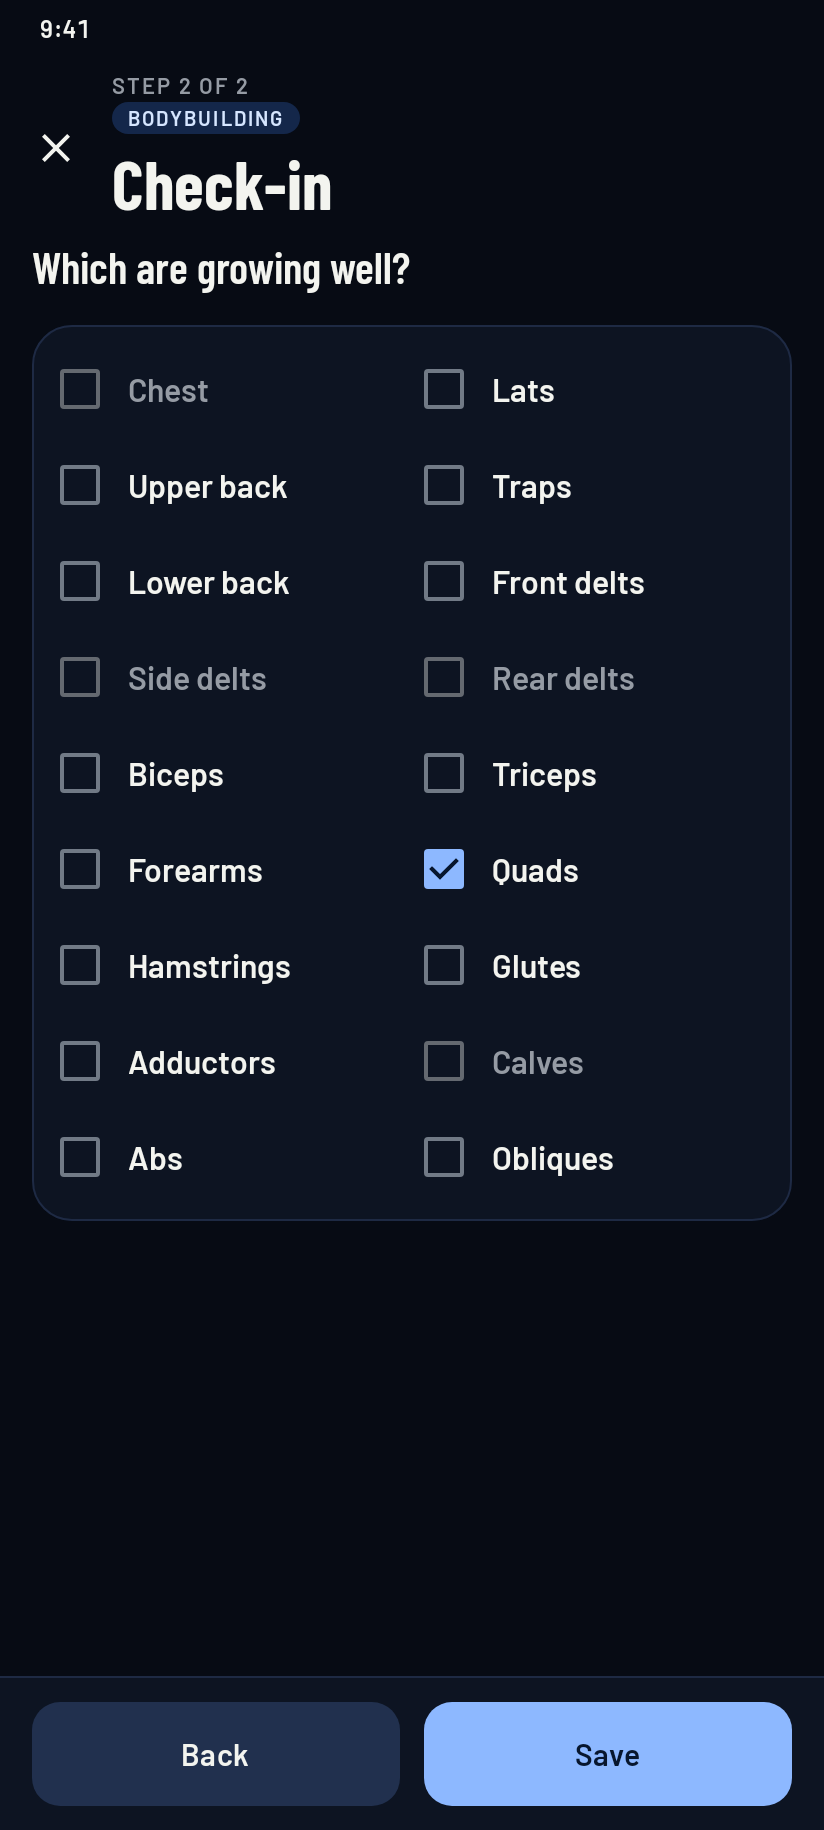
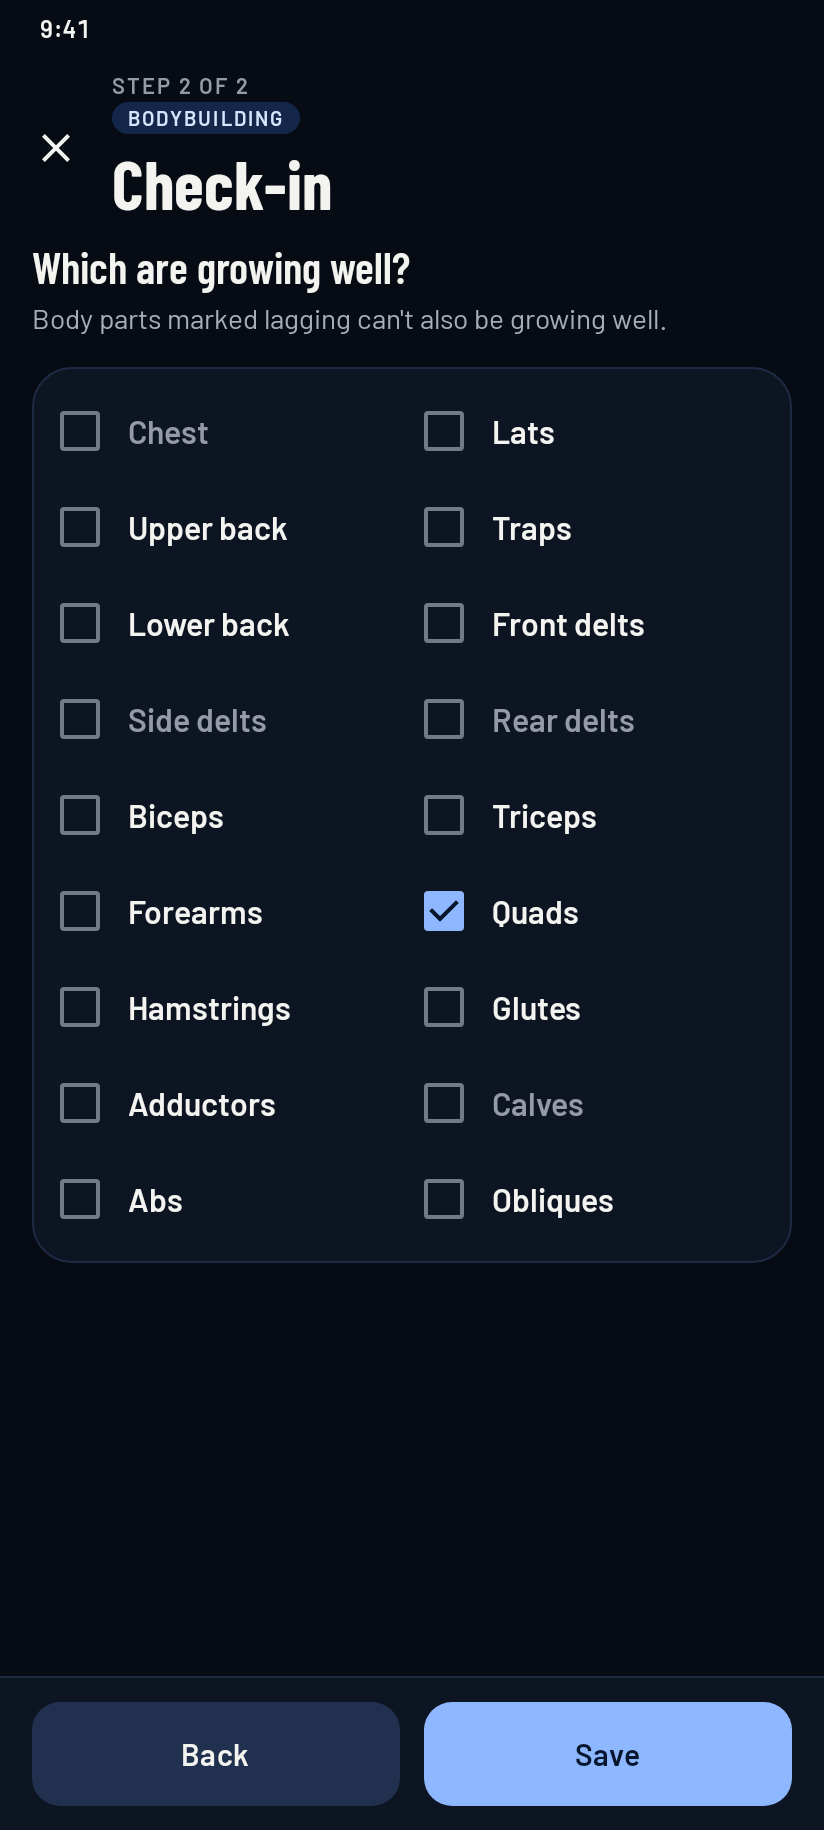
fix(app): check-in fix round: failed writes, empty plan, clearer step 2
Failed writes of Add to plan, a swap and a check-in are tested to bring
the card back or store nothing. An empty bodybuilding plan offers no
check-in. Step 2 says why lagging body parts are locked, and the locked
boxes keep the outline. The Android v4 fixture's side-delt advice now
adds a set to a lateral raise.

Claude-Session: https://claude.ai/code/session_01KboHw6FdBYrNDSMx1QWyzy

diff --git a/app/src/test/kotlin/com/powertracker/ui/CheckInTest.kt b/app/src/test/kotlin/com/powertracker/ui/CheckInTest.kt
@@ -127,14 +127,14 @@ class CheckInTest {
         training.plan(BODYBUILDING).first().map { it.weekday to (n.getValue(it.exerciseId) to it.sets) }
     }
 
-    private fun coachVm() = CoachViewModel(training, advice, settings) { today }.also { vm -> viewModels += vm; collectors.launch { vm.state.collect {} } }
+    private fun coachVm(repository: AdviceRepository = advice) = CoachViewModel(training, repository, settings) { today }.also { vm -> viewModels += vm; collectors.launch { vm.state.collect {} } }
 
     private fun CoachViewModel.await(condition: (CoachState) -> Boolean): CoachState {
         await("coach state") { !state.value.loading && condition(state.value) }
         return state.value
     }
 
-    private fun checkInVm() = CheckInViewModel(training, advice, settings) { today }.also { vm -> viewModels += vm; collectors.launch { vm.state.collect {} } }
+    private fun checkInVm(repository: AdviceRepository = advice) = CheckInViewModel(training, repository, settings) { today }.also { vm -> viewModels += vm; collectors.launch { vm.state.collect {} } }
 
     private fun progressVm() = ProgressViewModel(training, settings.showStrictPress, settings.settings.map { it.trainingMode }) { today }
         .also { vm -> viewModels += vm; collectors.launch { vm.state.collect {} } }
@@ -469,5 +469,89 @@ class CheckInTest {
         onSide(POWERLIFTING)
         val powerlifting = vm.await { it.mode == POWERLIFTING }
         assertEquals(emptyList<Any>(), powerlifting.muscles)
+    }
+
+    // ---- failed writes (fix round) ----
+
+    /** Stores like the real repository, but the advice's status write fails: it comes after the plan change in one transaction. */
+    private val failingStatus by lazy {
+        object : AdviceRepository(db) {
+            override suspend fun setStatus(id: Long, status: AdviceStatus) = throw IllegalStateException("disk full")
+        }
+    }
+
+    private fun CoachViewModel.messagesInto(list: MutableList<String>) = collectors.launch { messages.collect { list += it } }
+
+    @Test
+    fun moreWork_whenStoringFails_bringsTheCardBack_andThePlanIsAsItWas() {
+        standardPlan()
+        val press = id("DB press")
+        runBlocking { advice.insert(listOf(moreWork(MuscleGroup.CHEST, listOf(SetAddition(DayOfWeek.MONDAY, press, "DB press", 3, 4)), null, 6, 7))) }
+        val before = bbPlan()
+        val vm = coachVm(failingStatus)
+        val id = vm.await { it.cards.size == 1 }.cards.single().advice.id
+        val messages = mutableListOf<String>()
+        vm.messagesInto(messages)
+
+        vm.apply(id)
+        await("message") { messages.isNotEmpty() }
+
+        assertEquals(listOf("Couldn't update — try again"), messages)
+        assertEquals(listOf(id), vm.await { it.cards.size == 1 }.cards.map { it.advice.id })
+        assertEquals(before, bbPlan())
+        assertEquals(AdviceStatus.OPEN, runBlocking { advice.all() }.single().status)
+    }
+
+    @Test
+    fun swap_whenStoringFails_bringsTheCardBack_andThePlanIsAsItWas() {
+        plan("Leg extension", DayOfWeek.MONDAY, 0)
+        plan("Leg extension", DayOfWeek.WEDNESDAY, 0)
+        runBlocking { advice.insert(listOf(swapAdvice("Leg extension", listOf("Split squat")))) }
+        val before = bbPlan()
+        val vm = coachVm(failingStatus)
+        val id = vm.await { it.cards.size == 1 }.cards.single().advice.id
+        val messages = mutableListOf<String>()
+        vm.messagesInto(messages)
+
+        vm.swap(id, "Split squat")
+        await("message") { messages.isNotEmpty() }
+
+        assertEquals(listOf("Couldn't update — try again"), messages)
+        assertEquals(listOf(id), vm.await { it.cards.size == 1 }.cards.map { it.advice.id })
+        assertEquals(before, bbPlan())
+        assertTrue(runBlocking { training.exercises().first() }.none { it.name == "Split squat" })
+    }
+
+    @Test
+    fun save_whenStoringFails_saysSo_andStoresNothing() {
+        standardPlan()
+        session(ago(30), BODYBUILDING, "DB press" to (26.0 to 10))
+        val old = moreWork(MuscleGroup.BICEPS, emptyList(), NewExercise(DayOfWeek.MONDAY, "Cable curl", 3, 8, 12, 8.0), 0, 3)
+        runBlocking { advice.insert(listOf(old)) }
+        // The last write of the three fails: the check-in and the dismissal before it must go back with it.
+        val failingInsert = object : AdviceRepository(db) {
+            override suspend fun insert(advice: List<Advice>) = throw IllegalStateException("disk full")
+        }
+        val vm = checkInVm(failingInsert)
+        await("loaded") { !vm.state.value.loading }
+        vm.toggleLagging(MuscleGroup.CHEST)
+        vm.next()
+        vm.save()
+        await("failed") { vm.state.value.failed }
+
+        assertEquals(CheckInStep.GROWING, vm.state.value.step)
+        assertEquals(emptyList<CheckIn>(), runBlocking { training.checkIns().first() })
+        val all = runBlocking { advice.all() }
+        assertEquals(1, all.size)
+        assertEquals(AdviceStatus.OPEN, all.single().status)
+    }
+
+    // ---- an empty plan (fix round) ----
+
+    @Test
+    fun withAnEmptyPlan_noCheckInIsOffered() {
+        session(ago(40), BODYBUILDING, "Curl" to (16.0 to 10))
+        assertFalse(coachVm().await { true }.checkInDue)
+        assertEquals(emptyList<Any>(), progressVm().await { true }.trends)
     }
 }

diff --git a/app/src/test/kotlin/com/powertracker/data/BackupFixtureTest.kt b/app/src/test/kotlin/com/powertracker/data/BackupFixtureTest.kt
@@ -9,6 +9,7 @@ import com.powertracker.data.db.ExerciseEntity
 import com.powertracker.data.db.PlanItemEntity
 import com.powertracker.data.db.SessionEntity
 import com.powertracker.data.db.SetEntity
+import com.powertracker.domain.coach.PhysiqueCoach
 import com.powertracker.domain.library.MuscleGroup
 import com.powertracker.domain.model.AccessoryPrescription
 import com.powertracker.domain.model.AdvicePayload
@@ -152,8 +153,17 @@ class BackupFixtureTest {
         )
         db.baselines().upsert(BaselineEntity(squat, 172.5, LocalDate(2026, 9, 1)))
 
-        // Version 4: two check-ins, and the lagging-muscle coach's two kinds of advice.
+        // Version 4: two check-ins, and the lagging-muscle coach's two kinds of advice, true to the plan: a lateral raise
+        // at 4 sets after its applied set addition, and no chest work yet for the open Pec deck suggestion.
         val training = TrainingRepository(db)
+        val raise = CatalogueResolver(db).resolve("Lateral raise")
+        db.plan().upsert(PlanItemEntity(weekday = DayOfWeek.MONDAY, exerciseId = raise, sets = 4, reps = 8, targetRpe = 8.0, sortOrder = 2,
+            mode = TrainingMode.BODYBUILDING, repsHigh = 12))
+        val bbPlan = training.plan(TrainingMode.BODYBUILDING).first()
+        val known = training.exercises().first().associateBy { it.id }
+        // Before the applied addition the raise had 3 sets.
+        val sideBefore = PhysiqueCoach.weeklySets(bbPlan, known, MuscleGroup.SIDE_DELTS) - 1
+        check(sideBefore == 3 && PhysiqueCoach.weeklySets(bbPlan, known, MuscleGroup.CHEST) == 0)
         training.saveCheckIn(CheckIn(LocalDate(2026, 10, 5), emptySet(), setOf(MuscleGroup.BICEPS)))
         training.saveCheckIn(CheckIn(LocalDate(2026, 11, 2), setOf(MuscleGroup.CHEST, MuscleGroup.SIDE_DELTS), setOf(MuscleGroup.QUADS)))
         db.advice().insert(
@@ -161,8 +171,9 @@ class BackupFixtureTest {
                 advice(AdviceType.MORE_WORK, null, "You marked chest as lagging. Add Pec deck on Monday, 3 × 8–12 @ 8. That takes it from 0 to 3 sets a week.", 0,
                     AdvicePayload.MoreWork(MuscleGroup.CHEST, emptyList(), NewExercise(DayOfWeek.MONDAY, "Pec deck", 3, 8, 12, 8.0), 0, 3),
                     AdviceStatus.OPEN).copy(mode = TrainingMode.BODYBUILDING, createdAt = LocalDate(2026, 11, 2)),
-                advice(AdviceType.MORE_WORK, null, "You marked side delts as lagging. Add a set to Curl on Monday. That takes it from 3 to 4 sets a week.", 0,
-                    AdvicePayload.MoreWork(MuscleGroup.SIDE_DELTS, listOf(SetAddition(DayOfWeek.MONDAY, curl, "Curl", 3, 4)), null, 3, 4),
+                // Applied: the lateral raise went from 3 to 4 sets, the only side-delt work in the plan.
+                advice(AdviceType.MORE_WORK, null, "You marked side delts as lagging. Add a set to Lateral raise on Monday. That takes it from 3 to 4 sets a week.", 0,
+                    AdvicePayload.MoreWork(MuscleGroup.SIDE_DELTS, listOf(SetAddition(DayOfWeek.MONDAY, raise, "Lateral raise", 3, 4)), null, sideBefore, sideBefore + 1),
                     AdviceStatus.APPLIED).copy(mode = TrainingMode.BODYBUILDING, createdAt = LocalDate(2026, 11, 2)),
                 advice(AdviceType.SWAP, null, "Curl hasn't moved in 4 weeks. Same weight and no more reps since 5 Oct.", 0,
                     AdvicePayload.Swap(curl, "Curl", MuscleGroup.BICEPS, LocalDate(2026, 10, 5), listOf("Cable curl", "EZ-bar curl", "Incline DB curl")),

diff --git a/app/src/test/kotlin/com/powertracker/ui/CheckInScreensTest.kt b/app/src/test/kotlin/com/powertracker/ui/CheckInScreensTest.kt
@@ -86,6 +86,7 @@ class CheckInScreensTest {
             )
         }
         compose.onNodeWithText("Which are growing well?").assertExists()
+        compose.onNodeWithText("Body parts marked lagging can't also be growing well.").assertExists()
         compose.onNodeWithTag("muscle-option-CHEST").assertIsNotEnabled()
         compose.onNodeWithTag("muscle-option-QUADS").assertIsOn()
         compose.onNodeWithTag("muscle-option-CHEST").performClick()
@@ -274,6 +275,26 @@ class CheckInScreensTest {
         // Never rated: no rating label.
         compose.onNodeWithText("On track").assertDoesNotExist()
         compose.onNodeWithText("0 of 1 exercise going up").assertExists()
+    }
+
+    @Test
+    fun saveFailing_showsItsLine() {
+        show { CheckInContent(CheckInState(loading = false, available = true, step = CheckInStep.GROWING, failed = true), CheckInActions()) }
+        compose.onNodeWithText("The check-in could not be saved. Nothing was changed.").assertExists()
+    }
+
+    /** With no plan there is nothing a check-in could add to: no button, no first-check-in line. */
+    @Test
+    fun progress_withAnEmptyPlan_offersNoCheckIn() {
+        show {
+            ProgressContent(
+                ProgressState(loading = false, hasData = false, mode = TrainingMode.BODYBUILDING, muscles = listOf(row(MuscleGroup.CHEST, listOf(MuscleRating.LAGGING), 0, 0, 0, 0))),
+                onRange = {}, onOpenLift = {},
+            )
+        }
+        compose.onNodeWithText("Check in").assertDoesNotExist()
+        compose.onNodeWithText("Your first check-in is four weeks after your first bodybuilding session. You can check in any time.").assertDoesNotExist()
+        compose.onNodeWithText("No exercises in your plan yet").assertExists()
     }
 
     @Test

diff --git a/app/src/main/kotlin/com/powertracker/ui/progress/ProgressScreen.kt b/app/src/main/kotlin/com/powertracker/ui/progress/ProgressScreen.kt
@@ -123,8 +123,9 @@ fun ProgressContent(
                 state.loading -> Unit
                 // The powerlifting charts, records and total belong to that side (bodybuilding mode spec §7.6).
                 state.mode == TrainingMode.BODYBUILDING -> {
-                    // Stage 3: a check-in any time, then the body parts above the stage 1 exercise rows.
-                    CheckInStart(state.checkedIn, onCheckIn)
+                    // Stage 3: a check-in any time, then the body parts above the stage 1 exercise rows. With no plan
+                    // (no exercise rows) there is nothing a check-in could add to, so it is not offered.
+                    if (state.trends.isNotEmpty()) CheckInStart(state.checkedIn, onCheckIn)
                     if (state.muscles.isNotEmpty()) BodyPartsSection(state.muscles)
                     if (state.trends.isEmpty()) {
                         EmptyState(
@@ -439,7 +440,8 @@ fun goingUpText(row: MuscleRow): String? =
 /** The Check in button, with a line before the first check-in saying when one falls due. */
 @Composable
 private fun CheckInStart(checkedIn: Boolean, onCheckIn: () -> Unit) {
-    Column(verticalArrangement = Arrangement.spacedBy(Space.s)) {
+    // Clear of the title, as the first card on the other screens sits below their headers.
+    Column(Modifier.padding(top = Space.m), verticalArrangement = Arrangement.spacedBy(Space.s)) {
         SecondaryButton("Check in", onCheckIn, Modifier.fillMaxWidth().testTag("progress-check-in"))
         if (!checkedIn) {
             Text(FIRST_CHECK_IN_LINE, style = MaterialTheme.typography.bodyMedium, color = MaterialTheme.colorScheme.onSurfaceVariant, modifier = Modifier.padding(horizontal = Space.xs))

diff --git a/app/src/main/kotlin/com/powertracker/ui/library/ExerciseBrowser.kt b/app/src/main/kotlin/com/powertracker/ui/library/ExerciseBrowser.kt
@@ -477,7 +477,11 @@ private fun MuscleOption(group: MuscleGroup, ticked: Boolean, onToggle: (MuscleG
             checked = ticked,
             onCheckedChange = null,
             enabled = enabled,
-            colors = CheckboxDefaults.colors(checkedColor = pt.accent, checkmarkColor = pt.onAccent, uncheckedColor = scheme.outline),
+            // A locked box keeps the outline (3:1, the design system's minimum for a control's edge) rather than
+            // Material's faint disabled grey; its label goes to muted text (4.5:1). TokenContrastTest checks both.
+            colors = CheckboxDefaults.colors(
+                checkedColor = pt.accent, checkmarkColor = pt.onAccent, uncheckedColor = scheme.outline, disabledUncheckedColor = scheme.outline,
+            ),
         )
         Text(group.label, style = MaterialTheme.typography.titleMedium, color = if (enabled) scheme.onSurface else pt.muted, modifier = Modifier.weight(1f))
     }

diff --git a/app/src/main/kotlin/com/powertracker/ui/checkin/CheckInScreen.kt b/app/src/main/kotlin/com/powertracker/ui/checkin/CheckInScreen.kt
@@ -55,6 +55,7 @@ const val CHECK_IN_TITLE = "Check-in"
 const val LAGGING_HEADING = "Which body parts are lagging?"
 const val LAGGING_LINE = "Leave a body part unticked if it is on track."
 const val GROWING_HEADING = "Which are growing well?"
+const val GROWING_LINE = "Body parts marked lagging can't also be growing well."
 const val SAVED_HEADING = "Check-in saved"
 const val MORE_WORK_SUGGESTED = "More work suggested on Coach"
 const val SEE_COACH = "See Coach"
@@ -158,7 +159,7 @@ fun CheckInContent(state: CheckInState, actions: CheckInActions) {
                     Groups(state.lagging, actions.onLagging)
                 }
                 CheckInStep.GROWING -> {
-                    StepHeading(GROWING_HEADING)
+                    StepHeading(GROWING_HEADING, GROWING_LINE)
                     Groups(state.growingWell, actions.onGrowing, locked = state.lagging)
                 }
                 CheckInStep.SAVED -> Saved(state)

diff --git a/app/src/main/kotlin/com/powertracker/data/AdviceRepository.kt b/app/src/main/kotlin/com/powertracker/data/AdviceRepository.kt
@@ -16,7 +16,7 @@ open class AdviceRepository(private val db: AppDatabase) {
 
     suspend fun all(): List<Advice> = db.advice().all().map { it.toDomain() }
 
-    suspend fun insert(advice: List<Advice>) = db.advice().insert(advice.map { it.toEntity() })
+    open suspend fun insert(advice: List<Advice>) = db.advice().insert(advice.map { it.toEntity() })
 
     open suspend fun setStatus(id: Long, status: AdviceStatus) = db.advice().setStatus(id, status)
 }

diff --git a/app/src/test/kotlin/com/powertracker/ui/design/ScreenshotTest.kt b/app/src/test/kotlin/com/powertracker/ui/design/ScreenshotTest.kt
@@ -147,7 +147,7 @@ class ScreenshotTest {
     fun coachBodybuilding() = render("coach-bodybuilding", Tab.COACH, TrainingMode.BODYBUILDING) { CoachBodybuildingShowcase() }
 
     @Test
-    @Config(qualifiers = "w412dp-h1440dp-xhdpi")
+    @Config(qualifiers = "w412dp-h1456dp-xhdpi")
     fun progressBodybuilding() = render("progress-bodybuilding", Tab.PROGRESS, TrainingMode.BODYBUILDING) { ProgressBodybuildingShowcase() }
 
     @Test
